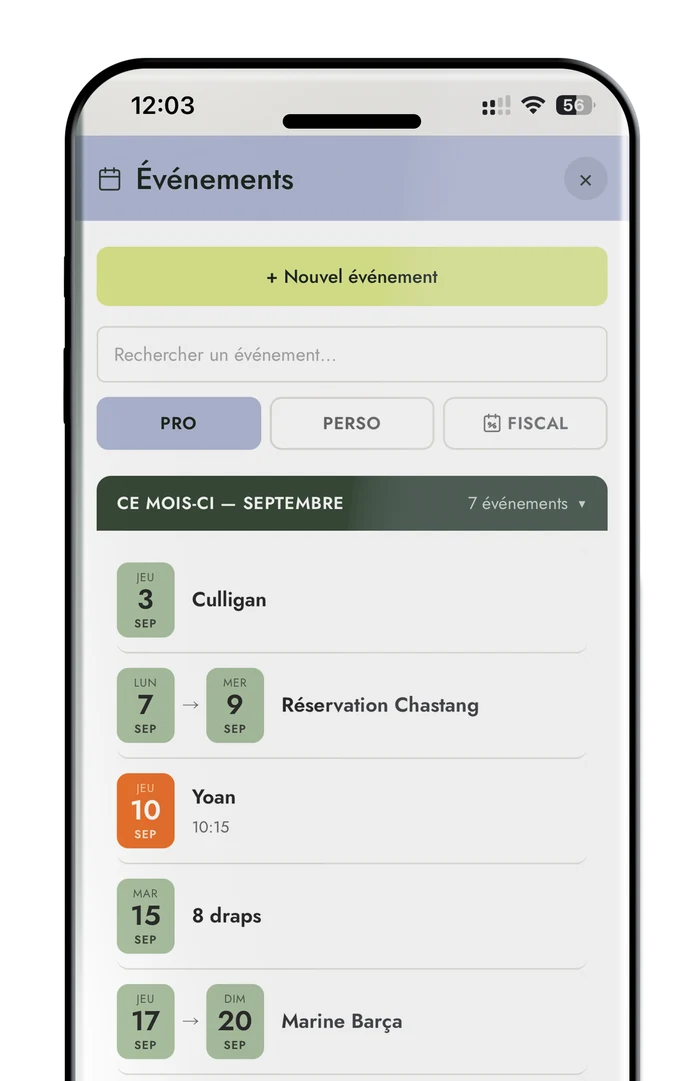
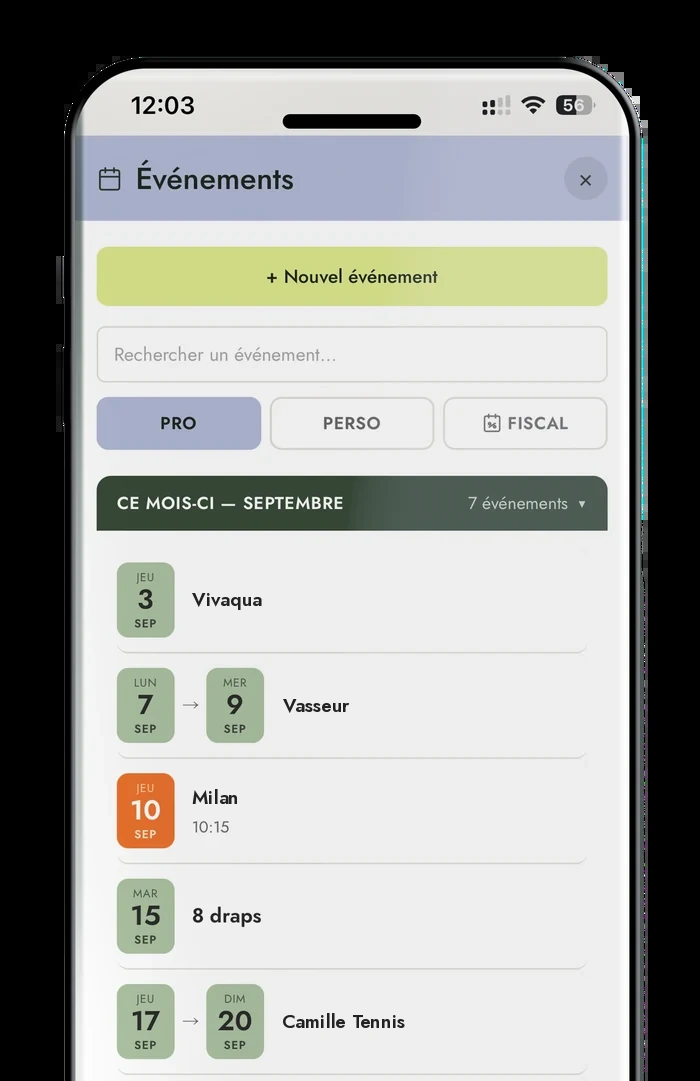
Anonymise les captures d'écran de la page commerciale
Les captures téléphone utilisées pour illustrer Fiftin (planning,
clients, comptabilité, événements) montraient de vraies données de
La Ferme Fanost : nom d'établissement, raison sociale, et noms réels
de clients/fournisseurs. Remplacés par un nom fictif ("Maurin") et des
noms de clients fictifs, par retouche d'image (police Jost récupérée
depuis Google Fonts pour un rendu fidèle à l'app réelle) :

- shot-clients.webp : "Fanost" + les 9 noms de la liste clients.
- shot-comptabilite.webp : "Fanost" (en-tête + raison sociale "SASU -
  LA FERME FANOST"). Les chiffres d'affaires réels sont volontairement
  laissés inchangés (décision explicite).
- shot-evenements.webp : les 4 entrées nommées (fournisseur, client,
  prénom, événement personnel).
- shot-planning.webp : "Fanost" en en-tête + les 7 occurrences du nom
  "Torti", seul nom pleinement lisible dans la grille de réservations
  (le reste n'est que des initiales tronquées à 1-3 caractères, déjà
  peu identifiantes — laissées telles quelles).

shot-hero.webp (vue 3D inclinée du planning, retour utilisateur :
remplacer par une vue de face comme les autres) est retiré du dépôt :
la section .cover de la page commerciale réutilise maintenant le
même shot-planning.webp (anonymisé) via le composant .phone-stage/
.phone2 standard, au lieu du traitement .hero-phone-wrap dédié à
l'ancien rendu incliné. Le fichier est supprimé du dépôt (et pas
seulement déréférencé) : GitHub Pages sert assets/ tel quel, un
[…]

diff --git a/sejours/index.html b/sejours/index.html
@@ -2115,10 +2115,12 @@ body.map-fullscreen{overflow:hidden;}
 .mkt-page .cover h1 em{font-style:italic; font-weight:500; color:var(--lavender-soft);}
 .mkt-page .cover p{font-size:18px; line-height:1.5; font-weight:500; color:rgba(245,240,229,0.94); max-width:580px; margin:0; letter-spacing:-0.005em;}
 
+/* Visuel hero ramené au composant .phone-stage/.phone2 standard (retour
+   utilisateur : "remplace par une vue de face comme les autres" — l'ancienne
+   capture au rendu incliné/3D, shot-hero.webp, montrait de vraies données
+   client en trop petit pour être retouchée proprement ; supprimée, cette
+   section réutilise désormais shot-planning.webp, déjà anonymisée). */
 .mkt-page .hero-flex{display:flex; flex-direction:column; align-items:center;}
-.mkt-page .hero-phone-wrap{width:auto; height:auto; overflow:visible; contain:none; margin:6px -12px -34.5vw; position:relative; flex:none;}
-.mkt-page .hero-phone-wrap .hero-shot{width:100%; max-width:none; height:auto; display:block; position:relative; z-index:1;}
-.mkt-page .hero-shot-offset{position:relative; left:0;}
 
 .mkt-page .stat-row{display:grid; grid-template-columns:repeat(auto-fit,minmax(160px,1fr)); gap:14px; margin:30px 0 8px;}
 .mkt-page .stat{background:#fff; border:1px solid var(--line); border-radius:16px; padding:20px;}
@@ -2197,7 +2199,7 @@ body.map-fullscreen{overflow:hidden;}
 .mkt-page .phone2{width:200px; flex:none; position:relative;}
 .mkt-page .phone2 img{display:block; width:100%; height:auto;}
 .mkt-page .phone-stage{position:relative; overflow:hidden; contain:paint; height:294px;}
-.mkt-page .phone-stage .phone2, .mkt-page .hero-phone-wrap .hero-shot{will-change:transform;}
+.mkt-page .phone-stage .phone2{will-change:transform;}
 .mkt-page .mod-visual .phone2, .mkt-page .phone-stage.mkt-lg .phone2{width:240px;}
 .mkt-page .mod-visual .phone-stage, .mkt-page .phone-stage.mkt-lg{height:353px;}
 
@@ -9147,7 +9149,7 @@ function openBillingPortalFromSejours(btn){
   });
 }
 var MKT_SECTIONS = [
-    '<section class="cover">\n  <video class="brand-bg-video" id="mktCoverVideo" autoplay muted loop playsinline aria-hidden="true"></video>\n  <div class="hero-flex">\n    <div class="inner">\n      <div class="logo">\n        <div class="logo-tile"><img src="../assets/logo-fiftin-mark.png" width="102" height="80" alt="Fiftin"></div>\n      </div>\n      <h1>Le planning qui ne s\'arrête pas<br><em>aux réservations.</em></h1>\n      <p>Pensé pour les chambres d\'hôtes et gîtes. Retrouvez votre temps, votre autonomie et votre rentabilité.</p>\n    </div>\n    <div class="hero-phone-wrap"><div class="hero-shot-offset"><img class="hero-shot" src="../assets/shot-hero.webp" alt="Fiftin — La grille, en situation"></div></div>\n  </div>\n</section>',
+    '<section class="cover">\n  <video class="brand-bg-video" id="mktCoverVideo" autoplay muted loop playsinline aria-hidden="true"></video>\n  <div class="hero-flex">\n    <div class="inner">\n      <div class="logo">\n        <div class="logo-tile"><img src="../assets/logo-fiftin-mark.png" width="102" height="80" alt="Fiftin"></div>\n      </div>\n      <h1>Le planning qui ne s\'arrête pas<br><em>aux réservations.</em></h1>\n      <p>Pensé pour les chambres d\'hôtes et gîtes. Retrouvez votre temps, votre autonomie et votre rentabilité.</p>\n    </div>\n    <div class="phone-stage mkt-lg"><div class="phone2"><img src="../assets/shot-planning.webp" alt="Fiftin — La grille, en situation"></div></div>\n  </div>\n</section>',
     '<section>\n  <div class="inner">\n    <div class="kicker">D\'où vient le nom</div>\n    <p class="quote-lead">15, c\'est à peu de chose près ce que les plateformes prélèvent aujourd\'hui sur chaque réservation.</p>\n    <p class="big" style="margin-top:30px;">Fiftin est né dans une maison d\'hôtes familiale de cinq chambres et un gîte, tenue par Marine et César — une juriste et un designer graphique partis en quête d\'indépendance. Comme beaucoup, on a fait confiance aux plateformes avant de regarder ce que leur commission représentait vraiment. 15 est resté le chiffre-repère : le coût de ne pas être pleinement propriétaire de son activité. C\'est pour ça que Fiftin existe — pas seulement pour les réservations, pour toute l\'activité.</p>\n    <div class="stat-row" style="margin-top:28px; max-width:420px;">\n      <div class="stat">\n        <div class="n">15,5&nbsp;%</div>\n        <div class="l">Commission unique hôte Airbnb, 18,6 % TTC, depuis octobre 2026.</div>\n      </div>\n      <div class="stat">\n        <div class="n" style="color:var(--sauge);">0 %</div>\n        <div class="l">Ce que vous payez sur une réservation prise en direct.</div>\n      </div>\n    </div>\n  </div>\n</section>',
     '<section>\n  <div class="inner">\n    <div class="kicker">Le vrai problème</div>\n    <h2>Les plateformes sont un détail.<br><em>La vision d\'ensemble est la clé.</em></h2>\n    <p class="big">Réservations, ménage, clients, extras, TVA, charges, imprévus : une activité d\'hôte, ce sont des centaines de tâches chaque semaine — un carnet ici, un tableur là, le reste dans la tête.</p>\n    <p class="big">Pas un manque de sérieux : un manque de recul sur une information éclatée partout, qui empêche d\'en garder vraiment le contrôle.</p>\n  </div>\n</section>',
     '<section>\n  <div class="inner">\n    <div class="kicker">Ce que Fiftin fait</div>\n    <h2>Un seul outil,<br><em>de la réservation au bilan.</em></h2>\n    <div class="mods-visual">\n      <div class="mod-visual">\n        <div class="mv-text">\n          <h3>Le planning &amp; la réservation</h3>\n          <p class="claim">« Toute votre année, instantanément. »</p>\n          <p>Une grille en barres colorées, chaque séjour lisible d\'un coup d\'œil. Une réservation se saisit en 15 secondes, pendant que le voyageur est encore en ligne.</p>\n        </div>\n        <div class="mv-shot"><div class="phone-stage"><div class="phone2"><img src="../assets/shot-planning.webp" alt="Fiftin — La grille"></div></div></div>\n      </div>\n      <div class="mod-visual">\n        <div class="mv-text">\n          <h3>Le fichier client</h3>\n          <p class="claim">« Vos habitués, toujours reconnus. »</p>\n          <p>Une réservation sur plateforme reste un séjour anonyme. Une réservation en direct devient un client à vous : nom, email, préférences, historique — prêt à être fidélisé sans repasser par personne.</p>\n        </div>\n        <div class="mv-shot"><div class="phone-stage"><div class="phone2"><img src="../assets/shot-clients.webp" alt="Fiftin — Fiche client"></div></div></div>\n      </div>\n      <div class="mod-visual">\n        <div class="mv-text">\n          <h3>La comptabilité</h3>\n          <p class="claim">« Une longueur d\'avance sur votre comptable. »</p>\n          <p>CA réalisé, seuil de TVA suivi en direct, marge par chambre. Charges importées du relevé bancaire.</p>\n        </div>\n        <div class="mv-shot"><div class="phone-stage"><div class="phone2"><img src="../assets/shot-comptabilite.webp" alt="Fiftin — Année"></div></div></div>\n      </div>\n      <div class="mod-visual">\n        <div class="mv-text">\n          <h3>Les consommations</h3>\n          <p class="claim">« Rien ne se perd, rien ne s\'oublie. »</p>\n          <p>Table d\'hôtes, boissons, extras : notés d\'un geste, au moment où ça se passe.</p>\n        </div>\n        <div class="mv-shot"><div class="phone-stage"><div class="phone2"><img src="../assets/shot-consommations.webp" alt="Fiftin — Consommations"></div></div></div>\n      </div>\n    </div>\n  </div>\n</section>',

diff --git a/index.html b/index.html
@@ -2115,10 +2115,12 @@ body.map-fullscreen{overflow:hidden;}
 .mkt-page .cover h1 em{font-style:italic; font-weight:500; color:var(--lavender-soft);}
 .mkt-page .cover p{font-size:18px; line-height:1.5; font-weight:500; color:rgba(245,240,229,0.94); max-width:580px; margin:0; letter-spacing:-0.005em;}
 
+/* Visuel hero ramené au composant .phone-stage/.phone2 standard (retour
+   utilisateur : "remplace par une vue de face comme les autres" — l'ancienne
+   capture au rendu incliné/3D, shot-hero.webp, montrait de vraies données
+   client en trop petit pour être retouchée proprement ; supprimée, cette
+   section réutilise désormais shot-planning.webp, déjà anonymisée). */
 .mkt-page .hero-flex{display:flex; flex-direction:column; align-items:center;}
-.mkt-page .hero-phone-wrap{width:auto; height:auto; overflow:visible; contain:none; margin:6px -12px -34.5vw; position:relative; flex:none;}
-.mkt-page .hero-phone-wrap .hero-shot{width:100%; max-width:none; height:auto; display:block; position:relative; z-index:1;}
-.mkt-page .hero-shot-offset{position:relative; left:0;}
 
 .mkt-page .stat-row{display:grid; grid-template-columns:repeat(auto-fit,minmax(160px,1fr)); gap:14px; margin:30px 0 8px;}
 .mkt-page .stat{background:#fff; border:1px solid var(--line); border-radius:16px; padding:20px;}
@@ -2197,7 +2199,7 @@ body.map-fullscreen{overflow:hidden;}
 .mkt-page .phone2{width:200px; flex:none; position:relative;}
 .mkt-page .phone2 img{display:block; width:100%; height:auto;}
 .mkt-page .phone-stage{position:relative; overflow:hidden; contain:paint; height:294px;}
-.mkt-page .phone-stage .phone2, .mkt-page .hero-phone-wrap .hero-shot{will-change:transform;}
+.mkt-page .phone-stage .phone2{will-change:transform;}
 .mkt-page .mod-visual .phone2, .mkt-page .phone-stage.mkt-lg .phone2{width:240px;}
 .mkt-page .mod-visual .phone-stage, .mkt-page .phone-stage.mkt-lg{height:353px;}
 
@@ -9147,7 +9149,7 @@ function openBillingPortalFromSejours(btn){
   });
 }
 var MKT_SECTIONS = [
-    '<section class="cover">\n  <video class="brand-bg-video" id="mktCoverVideo" autoplay muted loop playsinline aria-hidden="true"></video>\n  <div class="hero-flex">\n    <div class="inner">\n      <div class="logo">\n        <div class="logo-tile"><img src="assets/logo-fiftin-mark.png" width="102" height="80" alt="Fiftin"></div>\n      </div>\n      <h1>Le planning qui ne s\'arrête pas<br><em>aux réservations.</em></h1>\n      <p>Pensé pour les chambres d\'hôtes et gîtes. Retrouvez votre temps, votre autonomie et votre rentabilité.</p>\n    </div>\n    <div class="hero-phone-wrap"><div class="hero-shot-offset"><img class="hero-shot" src="assets/shot-hero.webp" alt="Fiftin — La grille, en situation"></div></div>\n  </div>\n</section>',
+    '<section class="cover">\n  <video class="brand-bg-video" id="mktCoverVideo" autoplay muted loop playsinline aria-hidden="true"></video>\n  <div class="hero-flex">\n    <div class="inner">\n      <div class="logo">\n        <div class="logo-tile"><img src="assets/logo-fiftin-mark.png" width="102" height="80" alt="Fiftin"></div>\n      </div>\n      <h1>Le planning qui ne s\'arrête pas<br><em>aux réservations.</em></h1>\n      <p>Pensé pour les chambres d\'hôtes et gîtes. Retrouvez votre temps, votre autonomie et votre rentabilité.</p>\n    </div>\n    <div class="phone-stage mkt-lg"><div class="phone2"><img src="assets/shot-planning.webp" alt="Fiftin — La grille, en situation"></div></div>\n  </div>\n</section>',
     '<section>\n  <div class="inner">\n    <div class="kicker">D\'où vient le nom</div>\n    <p class="quote-lead">15, c\'est à peu de chose près ce que les plateformes prélèvent aujourd\'hui sur chaque réservation.</p>\n    <p class="big" style="margin-top:30px;">Fiftin est né dans une maison d\'hôtes familiale de cinq chambres et un gîte, tenue par Marine et César — une juriste et un designer graphique partis en quête d\'indépendance. Comme beaucoup, on a fait confiance aux plateformes avant de regarder ce que leur commission représentait vraiment. 15 est resté le chiffre-repère : le coût de ne pas être pleinement propriétaire de son activité. C\'est pour ça que Fiftin existe — pas seulement pour les réservations, pour toute l\'activité.</p>\n    <div class="stat-row" style="margin-top:28px; max-width:420px;">\n      <div class="stat">\n        <div class="n">15,5&nbsp;%</div>\n        <div class="l">Commission unique hôte Airbnb, 18,6 % TTC, depuis octobre 2026.</div>\n      </div>\n      <div class="stat">\n        <div class="n" style="color:var(--sauge);">0 %</div>\n        <div class="l">Ce que vous payez sur une réservation prise en direct.</div>\n      </div>\n    </div>\n  </div>\n</section>',
     '<section>\n  <div class="inner">\n    <div class="kicker">Le vrai problème</div>\n    <h2>Les plateformes sont un détail.<br><em>La vision d\'ensemble est la clé.</em></h2>\n    <p class="big">Réservations, ménage, clients, extras, TVA, charges, imprévus : une activité d\'hôte, ce sont des centaines de tâches chaque semaine — un carnet ici, un tableur là, le reste dans la tête.</p>\n    <p class="big">Pas un manque de sérieux : un manque de recul sur une information éclatée partout, qui empêche d\'en garder vraiment le contrôle.</p>\n  </div>\n</section>',
     '<section>\n  <div class="inner">\n    <div class="kicker">Ce que Fiftin fait</div>\n    <h2>Un seul outil,<br><em>de la réservation au bilan.</em></h2>\n    <div class="mods-visual">\n      <div class="mod-visual">\n        <div class="mv-text">\n          <h3>Le planning &amp; la réservation</h3>\n          <p class="claim">« Toute votre année, instantanément. »</p>\n          <p>Une grille en barres colorées, chaque séjour lisible d\'un coup d\'œil. Une réservation se saisit en 15 secondes, pendant que le voyageur est encore en ligne.</p>\n        </div>\n        <div class="mv-shot"><div class="phone-stage"><div class="phone2"><img src="assets/shot-planning.webp" alt="Fiftin — La grille"></div></div></div>\n      </div>\n      <div class="mod-visual">\n        <div class="mv-text">\n          <h3>Le fichier client</h3>\n          <p class="claim">« Vos habitués, toujours reconnus. »</p>\n          <p>Une réservation sur plateforme reste un séjour anonyme. Une réservation en direct devient un client à vous : nom, email, préférences, historique — prêt à être fidélisé sans repasser par personne.</p>\n        </div>\n        <div class="mv-shot"><div class="phone-stage"><div class="phone2"><img src="assets/shot-clients.webp" alt="Fiftin — Fiche client"></div></div></div>\n      </div>\n      <div class="mod-visual">\n        <div class="mv-text">\n          <h3>La comptabilité</h3>\n          <p class="claim">« Une longueur d\'avance sur votre comptable. »</p>\n          <p>CA réalisé, seuil de TVA suivi en direct, marge par chambre. Charges importées du relevé bancaire.</p>\n        </div>\n        <div class="mv-shot"><div class="phone-stage"><div class="phone2"><img src="assets/shot-comptabilite.webp" alt="Fiftin — Année"></div></div></div>\n      </div>\n      <div class="mod-visual">\n        <div class="mv-text">\n          <h3>Les consommations</h3>\n          <p class="claim">« Rien ne se perd, rien ne s\'oublie. »</p>\n          <p>Table d\'hôtes, boissons, extras : notés d\'un geste, au moment où ça se passe.</p>\n        </div>\n        <div class="mv-shot"><div class="phone-stage"><div class="phone2"><img src="assets/shot-consommations.webp" alt="Fiftin — Consommations"></div></div></div>\n      </div>\n    </div>\n  </div>\n</section>',
